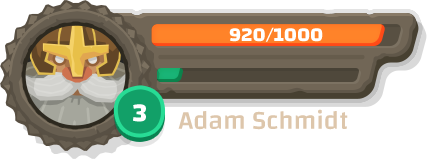
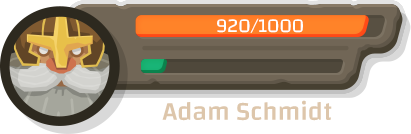
Add ability to have stackable items, update inventory count, update gold when purchasing, and display stacked item quantities in inventory.

diff --git a/app/src/pages/Items.jsx b/app/src/pages/Items.jsx
@@ -2,12 +2,48 @@ import "./Items.css";
 import constants from "../common/config";
 
 function Items({ onClose, gold, inventory }) {
-    const displaySlots = inventory || new Array(24).fill(null);
+    const totalSlots = 24;
+    let filledInventory = [];
+    let slotCounts = {};
+
+    inventory.forEach((item) => {
+        if (item) {
+            if (item.stackable) {
+                if (!slotCounts[item._id]) {
+                    // Add the item with count for the first time
+                    filledInventory.push({ ...item, count: 1 });
+                    slotCounts[item._id] = 1;
+                } else {
+                    // Increase the count for subsequent additions
+                    slotCounts[item._id] += 1;
+                    // Update the count in the filledInventory
+                    const existingItemIndex = filledInventory.findIndex(
+                        (i) => i._id === item._id
+                    );
+                    if (existingItemIndex !== -1) {
+                        filledInventory[existingItemIndex].count =
+                            slotCounts[item._id];
+                    }
+                }
+            } else {
+                // Non-stackable items are added directly
+                filledInventory.push(item);
+            }
+        }
+    });
+
+    // Fill the rest of the inventory slots with null if necessary
+    filledInventory = filledInventory.concat(
+        new Array(totalSlots - filledInventory.length).fill(null)
+    );
+
+    const slotsUsed = filledInventory.filter((item) => item !== null).length;
 
     return (
         <div className="items-backdrop">
             <div className="items-container">
-                <h2>{gold.toLocaleString()}</h2>
+                <h2 className="gold-count">{gold.toLocaleString()}</h2>
+                <h2 className="item-count">{slotsUsed}</h2>
                 <img
                     src="/images/shop/button-close.png"
                     alt="Close"
@@ -20,17 +56,27 @@ function Items({ onClose, gold, inventory }) {
                         alt=""
                         className="inventory-title"
                     />
-                    {displaySlots.map((item, index) => (
-                        <img
-                            key={index}
-                            src={
-                                item
-                                    ? constants.IMAGE_PATH_ITEMS + item.image
-                                    : "/images/item-slot.png"
-                            }
-                            alt={item ? item.name : "Empty Slot"}
-                            className="inventory-slot"
-                        />
+                    {filledInventory.map((item, index) => (
+                        <div className="inventory-slot" key={index}>
+                            {item ? (
+                                <>
+                                    <img
+                                        src={
+                                            constants.IMAGE_PATH_ITEMS +
+                                            item.image
+                                        }
+                                        alt={item.title}
+                                    />
+                                    {item.stackable && item.count > 1 && (
+                                        <div className="stack-count">
+                                            {item.count}
+                                        </div>
+                                    )}
+                                </>
+                            ) : (
+                                <div className="empty-slot"></div>
+                            )}
+                        </div>
                     ))}
                 </div>
             </div>

diff --git a/app/src/pages/Shop.jsx b/app/src/pages/Shop.jsx
@@ -10,6 +10,7 @@ function Shop({ onClose, addToInventory }) {
             price: 800,
             category: "Consumable",
             image: "red-potion.png",
+            stackable: true,
             _id: "0001",
         },
         {
@@ -17,6 +18,7 @@ function Shop({ onClose, addToInventory }) {
             price: 900,
             category: "Armor",
             image: "shield.png",
+            stackable: false,
             _id: "0002",
         },
         {
@@ -24,6 +26,7 @@ function Shop({ onClose, addToInventory }) {
             price: 600,
             category: "Weapon",
             image: "bow.png",
+            stackable: false,
             _id: "0003",
         },
         {
@@ -31,6 +34,7 @@ function Shop({ onClose, addToInventory }) {
             price: 300,
             category: "Weapon",
             image: "bomb.png",
+            stackable: true,
             _id: "0004",
         },
         {
@@ -38,6 +42,7 @@ function Shop({ onClose, addToInventory }) {
             price: 500,
             category: "Consumable",
             image: "plus-time.png",
+            stackable: true,
             _id: "0005",
         },
         {
@@ -45,6 +50,7 @@ function Shop({ onClose, addToInventory }) {
             price: 600,
             category: "Consumable",
             image: "lucky-chance.png",
+            stackable: true,
             _id: "0006",
         },
         {
@@ -52,6 +58,7 @@ function Shop({ onClose, addToInventory }) {
             price: 900,
             category: "Armor",
             image: "crown.png",
+            stackable: false,
             _id: "0007",
         },
         {
@@ -59,6 +66,7 @@ function Shop({ onClose, addToInventory }) {
             price: 750,
             category: "Consumable",
             image: "key.png",
+            stackable: true,
             _id: "0008",
         },
     ];

diff --git a/app/src/pages/Items.css b/app/src/pages/Items.css
@@ -27,7 +27,7 @@
     padding-bottom: 50px;
 }
 
-.items-container h2 {
+.items-container .gold-count {
     position: absolute;
     width: 150px;
     font-size: 25px;
@@ -37,6 +37,17 @@
     font-weight: 600;
     color: #faaf16;
     text-align: right;
+}
+
+.items-container .item-count {
+    position: absolute;
+    top: 135px;
+    left: 755px;
+    font-family: "Changa", sans-serif;
+    font-size: 35px;
+    font-weight: 500;
+    color: #f8913f;
+    z-index: 10;
 }
 
 .items-close {
@@ -57,8 +68,18 @@
 }
 
 .inventory-slot {
-    height: 120px;
+    background-image: url(/public/images/item-slot.png);
+    height: 110px;
+    width: 110px;
     transition: 0.2s linear;
+    display: flex;
+    justify-content: center;
+    align-items: center;
+    position: relative;
+}
+
+.inventory-slot img {
+    height: 90px;
 }
 
 .inventory-slot:hover {
@@ -67,4 +88,20 @@
 
 .inventory-title {
     clip-path: inset(0 140px 0 0);
+}
+
+.stack-count {
+    width: 40px;
+    height: 40px;
+    position: absolute;
+    top: 80px;
+    left: 80px;
+    background-image: url(/public/images/item-quantity-background.png);
+    display: flex;
+    justify-content: center;
+    align-items: center;
+    font-size: 25px;
+    font-family: "Changa", sans-serif;
+    color: #877862;
+    font-weight: 600;
 }

diff --git a/app/src/components/Navbar.jsx b/app/src/components/Navbar.jsx
@@ -4,7 +4,22 @@ import "./Navbar.css";
 function Navbar({ gold }) {
     return (
         <div className="navbar">
-            <img className="profile" src="/images/profile.png" alt="" />
+            <div className="profile">
+                <img src="/images/profile.png" alt="" />
+                <div className="wheel-container">
+                    <img
+                        src="/images/profile-wheel.png"
+                        alt=""
+                        className="profile-wheel"
+                    />
+                    <img
+                        src="/images/level.png"
+                        alt=""
+                        className="profile-level"
+                    />
+                </div>
+            </div>
+
             <nav className="nav-links">
                 <img className="resource" src="/images/life.png" alt="" />
                 <Gold gold={gold} />

diff --git a/app/src/components/Navbar.css b/app/src/components/Navbar.css
@@ -5,7 +5,40 @@
 }
 
 .profile {
+    position: relative;
+}
+
+.profile img {
     height: 125px;
+}
+
+.wheel-container {
+    position: absolute;
+    top: -3px;
+    left: -9px;
+    width: 125px;
+    height: 125px;
+}
+
+.profile .profile-wheel {
+    animation: spin 10s linear infinite;
+    transform-origin: center;
+}
+
+@keyframes spin {
+    from {
+        transform: rotate(0deg);
+    }
+    to {
+        transform: rotate(360deg);
+    }
+}
+
+.wheel-container .profile-level {
+    position: absolute;
+    top: 80px;
+    left: 90px;
+    height: 60px;
 }
 
 .resource {

diff --git a/app/src/App.js b/app/src/App.js
@@ -14,7 +14,7 @@ function App() {
     const players = [
         {
             name: "Adam Schmidt",
-            gold: 1000000,
+            gold: 20000,
         },
     ];
 
